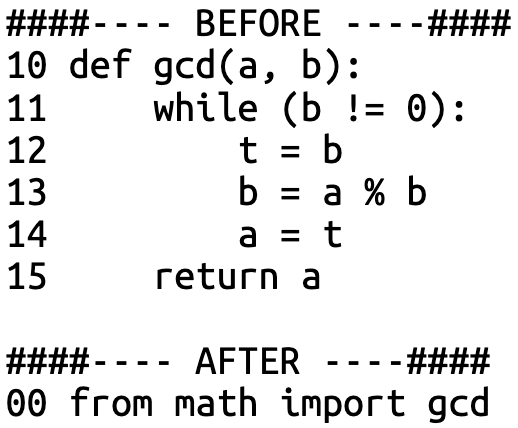
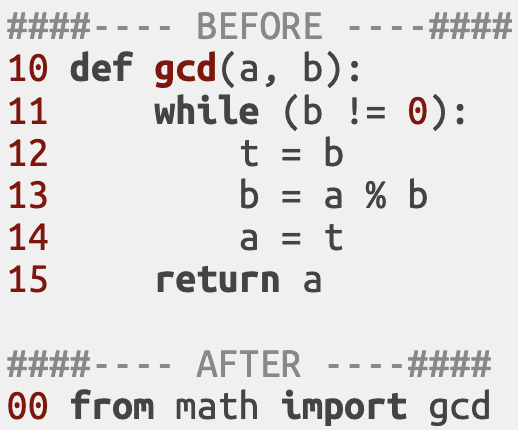
optimise: add syntax highlihghting to code samples

diff --git a/optimise/final.md b/optimise/final.md
@@ -6,27 +6,12 @@
 
 ---
 
-# TODO update each optimisation picture so it uses the casting to int in the reading part without the string manipulation [:-1] as previously
-
-- ./img_v00a.py.png
-- ./img_v02i.py.png
-- ./img_v03i.py.png
-- ./img_v04i.py.png
-- ./img_v05i.py.png
-- ./img_v06i.py.png
-- ./img_v06ii.py.png
-- ./img_profilingi.png
-- ./img_v14i.py.png
-
-- ./img_v10i.py.png ORDER OF xNN!!!
-
 # Outline
 
 ### 15% Part 1 Why bother?
 ### 50% Part 2 Problem definition.
 ### 35% Part 3 Optimisations.
 ### 35% Part 4 Conclusions.
-
 
 The % is the approximate relative duration.
 
@@ -82,7 +67,7 @@ optimise time, vs memory, a specific shared resource, etc.
 ## v0 Baseline.
 ### `ETA N=2^20:` 98.263 years `; ETA 100k N<=2^20:` >1 Bn
 
-<div style="margin-left:-4rem" ><img src="./img_v00a.py.png" width="110%"/></div>
+<div style="margin-left:-4rem" ><img src="./img_v00i.py.png" width="110%"/></div>
 
 ???
 
@@ -94,7 +79,7 @@ But before we evaluate how good/bad the code is... let's see how gcd is calculat
 
 ## v0 Baseline.
 
-<div ><img src="./img_v00_gcd.py.png" height="100%"/></div>
+<div ><img src="./img_v00ii.py.png" height="100%"/></div>
 
 ???
 
@@ -291,6 +276,10 @@ Are also interesting, but in this case required more code changes and were skipp
 
 Significant speedups can be achieved using non-incremental approaches. In this case we use a calculation based on Euclid's formula to generate primitive pythagorean triples.
 
+Didn't know if I should call it "paradigm shift", "do research", or "full rewrite".
+
+People get attached to code, and there is this sunk cost fallacy which prevents people from discarding and recognised the "wasted effort" when that would be the more effective approach. 
+
 ---
 
 ## v8 Paradigm shift.
@@ -408,7 +397,6 @@ this profiles also supports statistical mode
 
 ## v12 Memoisation (without r, no typo here).
 ### V11 vs V10 speedup: 1.01x
-
 
 <div style="margin-left:-4rem" ><img src="./img_v12i.py.png" width="100%"/></div>
 
